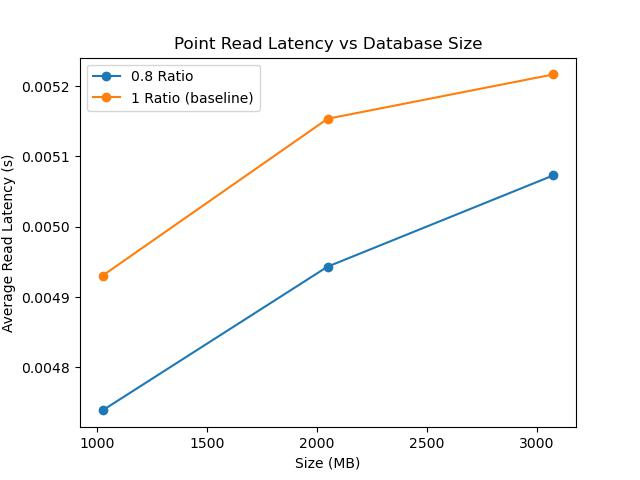
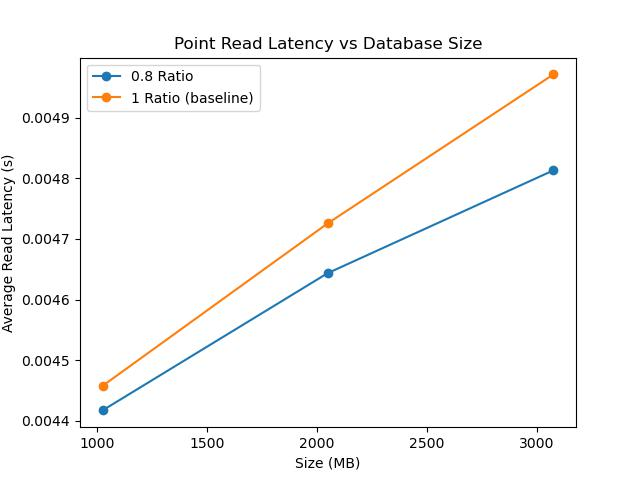
Fix bloom filter reading

diff --git a/fig1.py b/fig1.py
@@ -18,7 +18,7 @@ results = []
 
 # mb to write
 mb_to_write = [1024, 2048, 3076]
-db_path = "/home/ec2-user/research/mountpt/"
+db_path = "/tmp/"
 
 # test ratio to use
 test_ratio = 0.8
@@ -91,7 +91,7 @@ if int(sys.argv[1]) >= 1:
 
 # Perform Point Reads
 base_write_args = ["./ycsb", "-run", "-db",
-                   "leveldb", "-P", "workloads/read_uniform", "-s"]
+                   "leveldb", "-P", "workloads/read_uniform", "-s", "-p", 'leveldb.filter_bits=5,5,5,5,5,5,5']
 for num_mb in mb_to_write:
     print("Reading from db with " + str(num_mb) + " mb base...")
     curr_command = base_write_args.copy()
